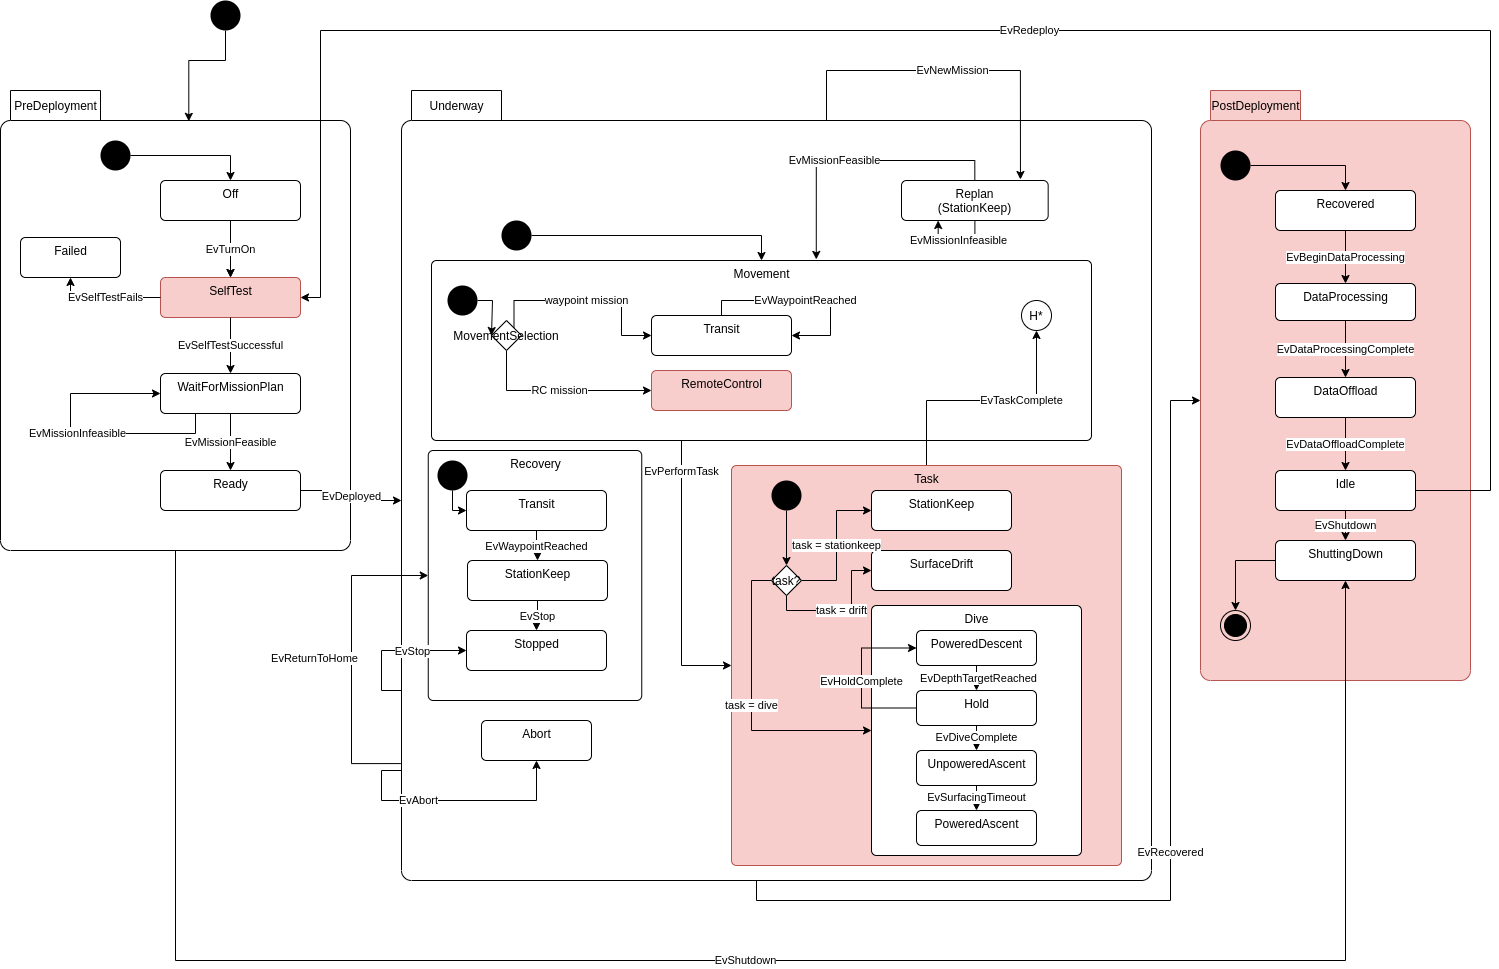
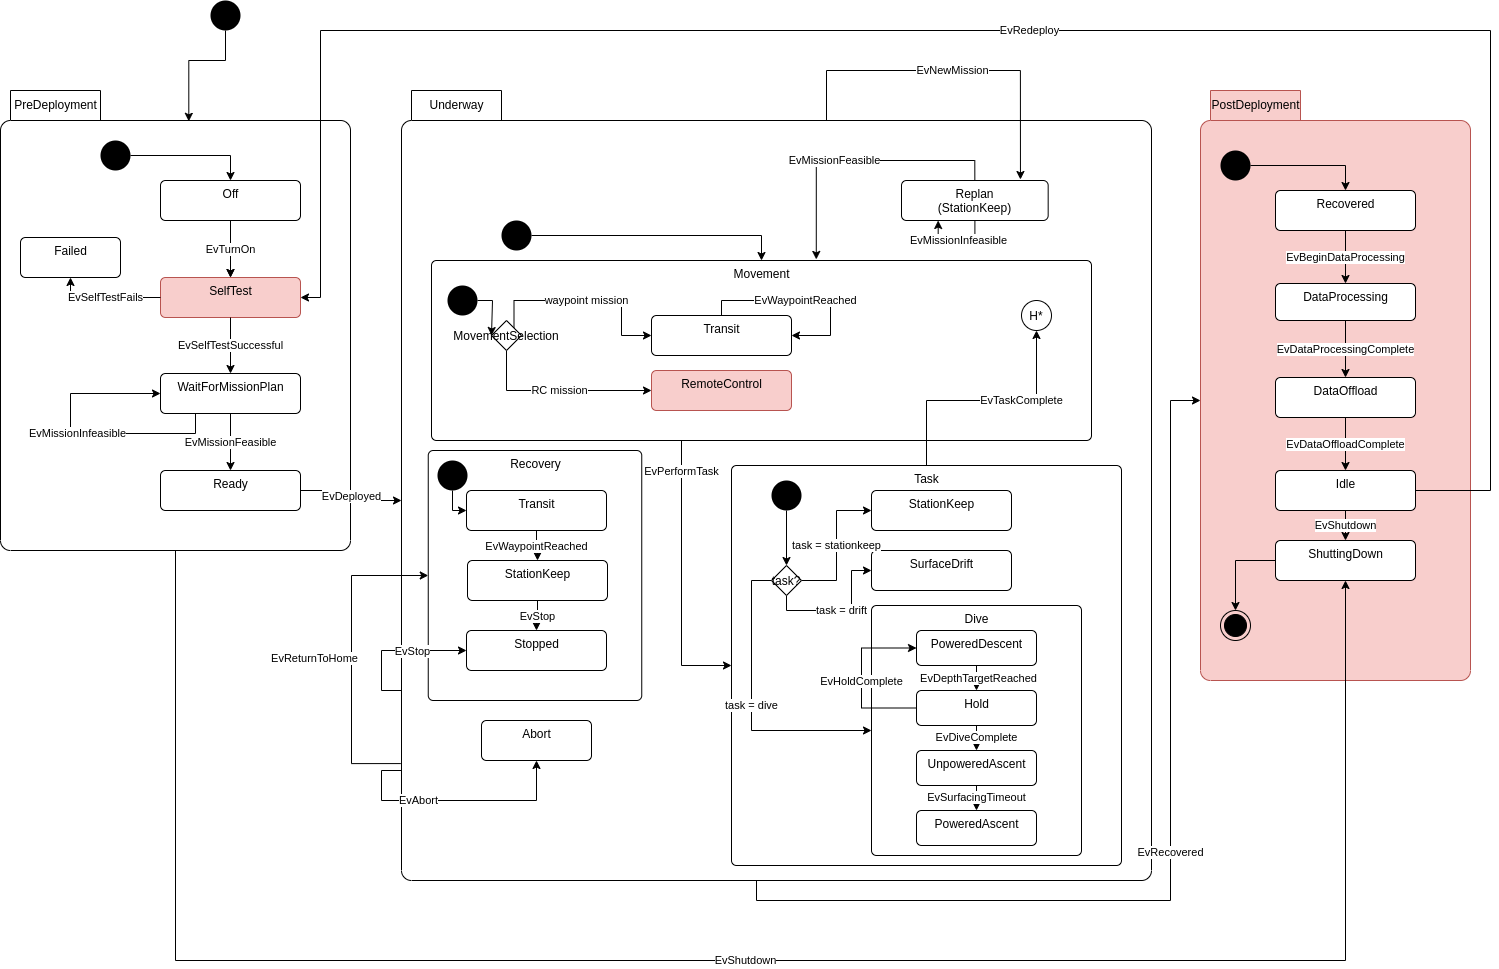
Implement SurfaceDrift and StationKeep tasks

Changed region(s): [[0.4603, 0.4644, 0.7672, 0.8978], [0.8286, 0.0929, 0.8592, 0.1238], [0.0307, 0.0929, 0.0614, 0.1238]]

diff --git a/src/bin/mission_manager/machine.cpp b/src/bin/mission_manager/machine.cpp
@@ -235,3 +235,43 @@ void jaiabot::statechart::underway::task::dive::PoweredAscent::depth(const EvVeh
     if (boost::units::abs(ev.depth - 0 * si::meters) < cfg().dive_depth_eps_with_units())
         post_event(EvTaskComplete());
 }
+
+// Task::StationKeep
+jaiabot::statechart::underway::task::StationKeep::StationKeep(typename StateBase::my_context c)
+    : StateBase(c)
+{
+    boost::optional<protobuf::MissionPlan::Goal> goal = context<Underway>().current_goal();
+    jaiabot::protobuf::IvPBehaviorUpdate update = create_stationkeep_update(
+        goal->location(), this->cfg().transit_speed_with_units(),
+        this->cfg().stationkeep_outer_speed_with_units(), this->machine().geodesy());
+    this->interprocess().publish<groups::mission_ivp_behavior_update>(update);
+}
+
+jaiabot::statechart::underway::task::StationKeep::~StationKeep()
+{
+    jaiabot::protobuf::IvPBehaviorUpdate update;
+    update.mutable_stationkeep()->set_active(false);
+    this->interprocess().publish<groups::mission_ivp_behavior_update>(update);
+}
+
+// Task::SurfaceDrift
+jaiabot::statechart::underway::task::SurfaceDrift::SurfaceDrift(typename StateBase::my_context c)
+    : StateBase(c)
+{
+    goby::time::SteadyClock::time_point drift_time_start = goby::time::SteadyClock::now();
+    int drift_time_seconds = context<Underway>().current_task()->surface_drift().drift_time();
+    goby::time::SteadyClock::duration drift_time_duration =
+        std::chrono::seconds(drift_time_seconds);
+    drift_time_stop_ = drift_time_start + drift_time_duration;
+}
+
+void jaiabot::statechart::underway::task::SurfaceDrift::loop(const EvLoop&)
+{
+    goby::time::SteadyClock::time_point now = goby::time::SteadyClock::now();
+    if (now >= drift_time_stop_)
+        post_event(EvTaskComplete());
+
+    protobuf::DesiredSetpoints setpoint_msg;
+    setpoint_msg.set_type(protobuf::SETPOINT_STOP);
+    interprocess().publish<jaiabot::groups::desired_setpoints>(setpoint_msg);
+}

diff --git a/src/bin/mission_manager/machine.h b/src/bin/mission_manager/machine.h
@@ -537,16 +537,24 @@ struct StationKeep : boost::statechart::state<StationKeep, Task>,
                             >
 {
     using StateBase = boost::statechart::state<StationKeep, Task>;
-    StationKeep(typename StateBase::my_context c) : StateBase(c) {}
-    ~StationKeep() {}
+    StationKeep(typename StateBase::my_context c);
+    ~StationKeep();
 };
 struct SurfaceDrift
     : boost::statechart::state<SurfaceDrift, Task>,
       Notify<SurfaceDrift, protobuf::UNDERWAY__TASK__SURFACE_DRIFT, protobuf::SETPOINT_STOP>
 {
     using StateBase = boost::statechart::state<SurfaceDrift, Task>;
-    SurfaceDrift(typename StateBase::my_context c) : StateBase(c) {}
+    SurfaceDrift(typename StateBase::my_context c);
     ~SurfaceDrift() {}
+
+    void loop(const EvLoop&);
+
+    using reactions = boost::mpl::list<
+        boost::statechart::in_state_reaction<EvLoop, SurfaceDrift, &SurfaceDrift::loop>>;
+
+  private:
+    goby::time::SteadyClock::time_point drift_time_stop_;
 };
 
 struct Dive : boost::statechart::state<Dive, Task, dive::PoweredDescent>, AppMethodsAccess<Dive>
@@ -602,6 +610,7 @@ struct Hold : boost::statechart::state<Hold, Dive>,
                          boost::statechart::in_state_reaction<EvLoop, Hold, &Hold::loop>,
                          boost::statechart::transition<EvDiveComplete, UnpoweredAscent>>;
 
+  private:
     goby::time::SteadyClock::time_point hold_stop_;
 };
 
@@ -622,6 +631,7 @@ struct UnpoweredAscent : boost::statechart::state<UnpoweredAscent, Dive>,
         boost::statechart::in_state_reaction<EvVehicleDepth, UnpoweredAscent,
                                              &UnpoweredAscent::depth>>;
 
+  private:
     goby::time::SteadyClock::time_point timeout_stop_;
 };
 

diff --git a/src/bin/mission_manager/app.cpp b/src/bin/mission_manager/app.cpp
@@ -196,6 +196,10 @@ void jaiabot::apps::MissionManager::handle_command(const protobuf::Command& comm
             machine_->process_event(statechart::EvDeployed());
             break;
 
+        case protobuf::Command::NEXT_TASK:
+            machine_->process_event(statechart::EvTaskComplete());
+            break;
+
         case protobuf::Command::RETURN_TO_HOME:
             machine_->process_event(statechart::EvReturnToHome());
             break;
